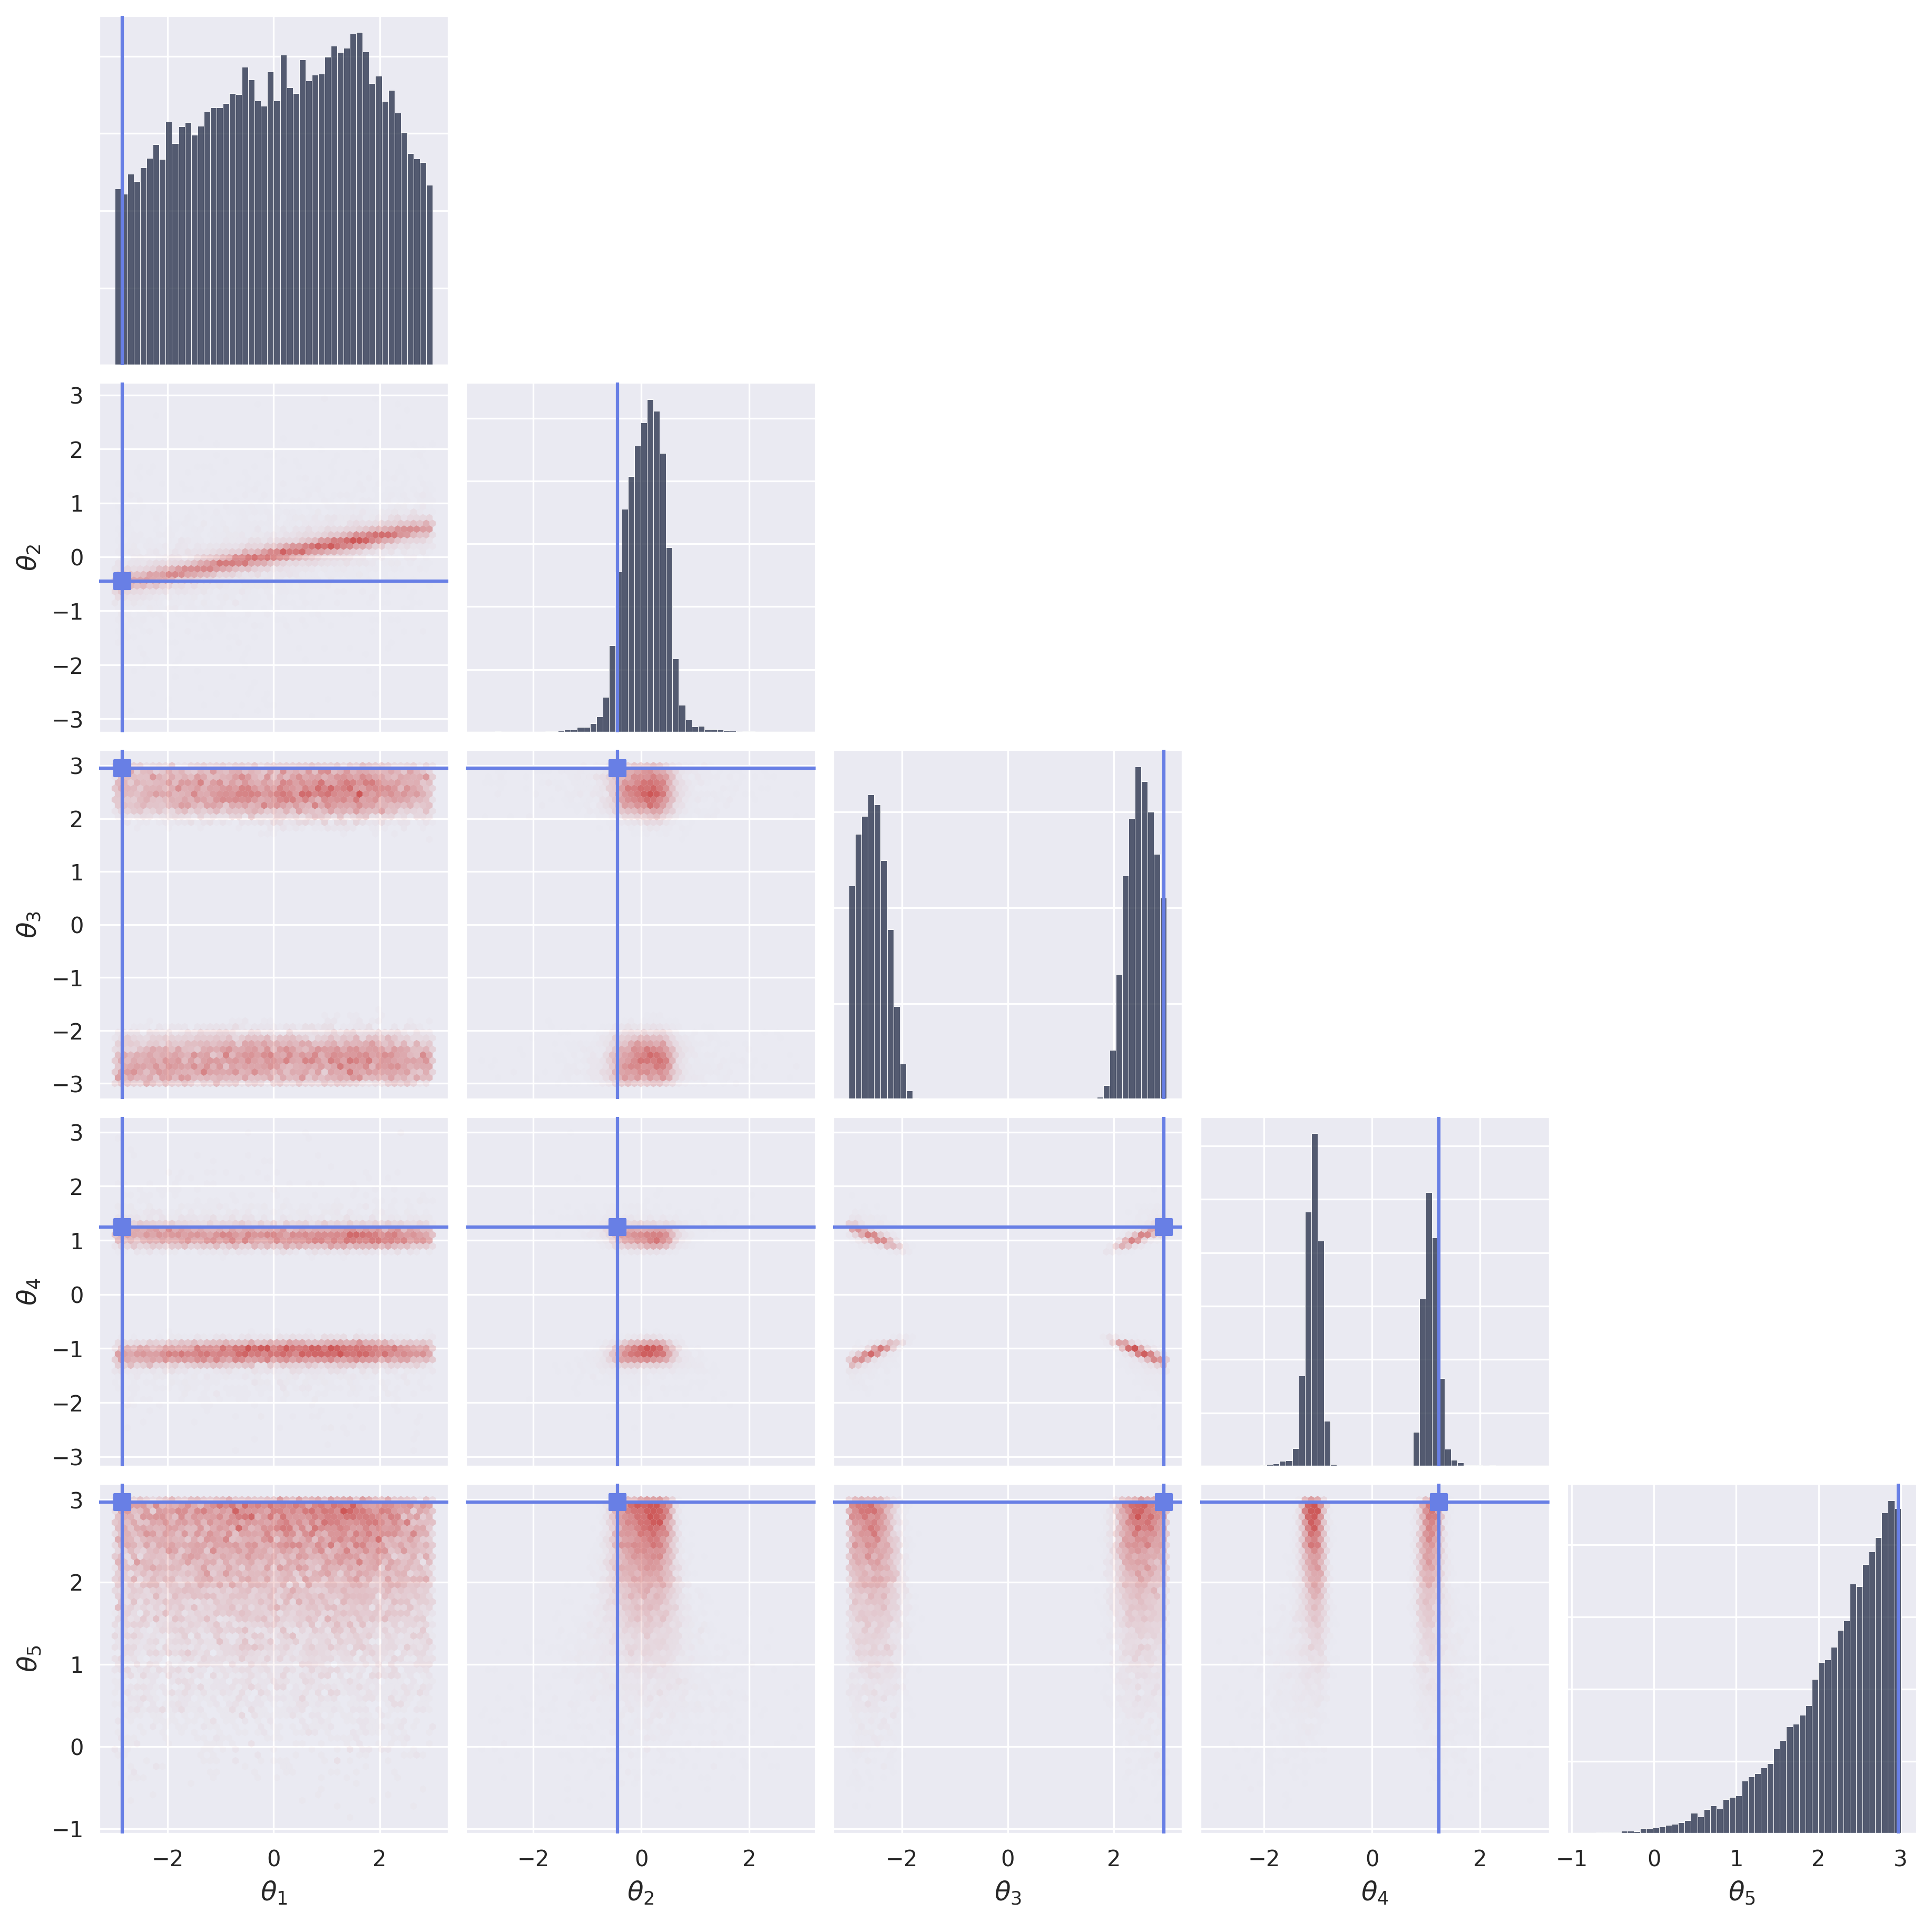
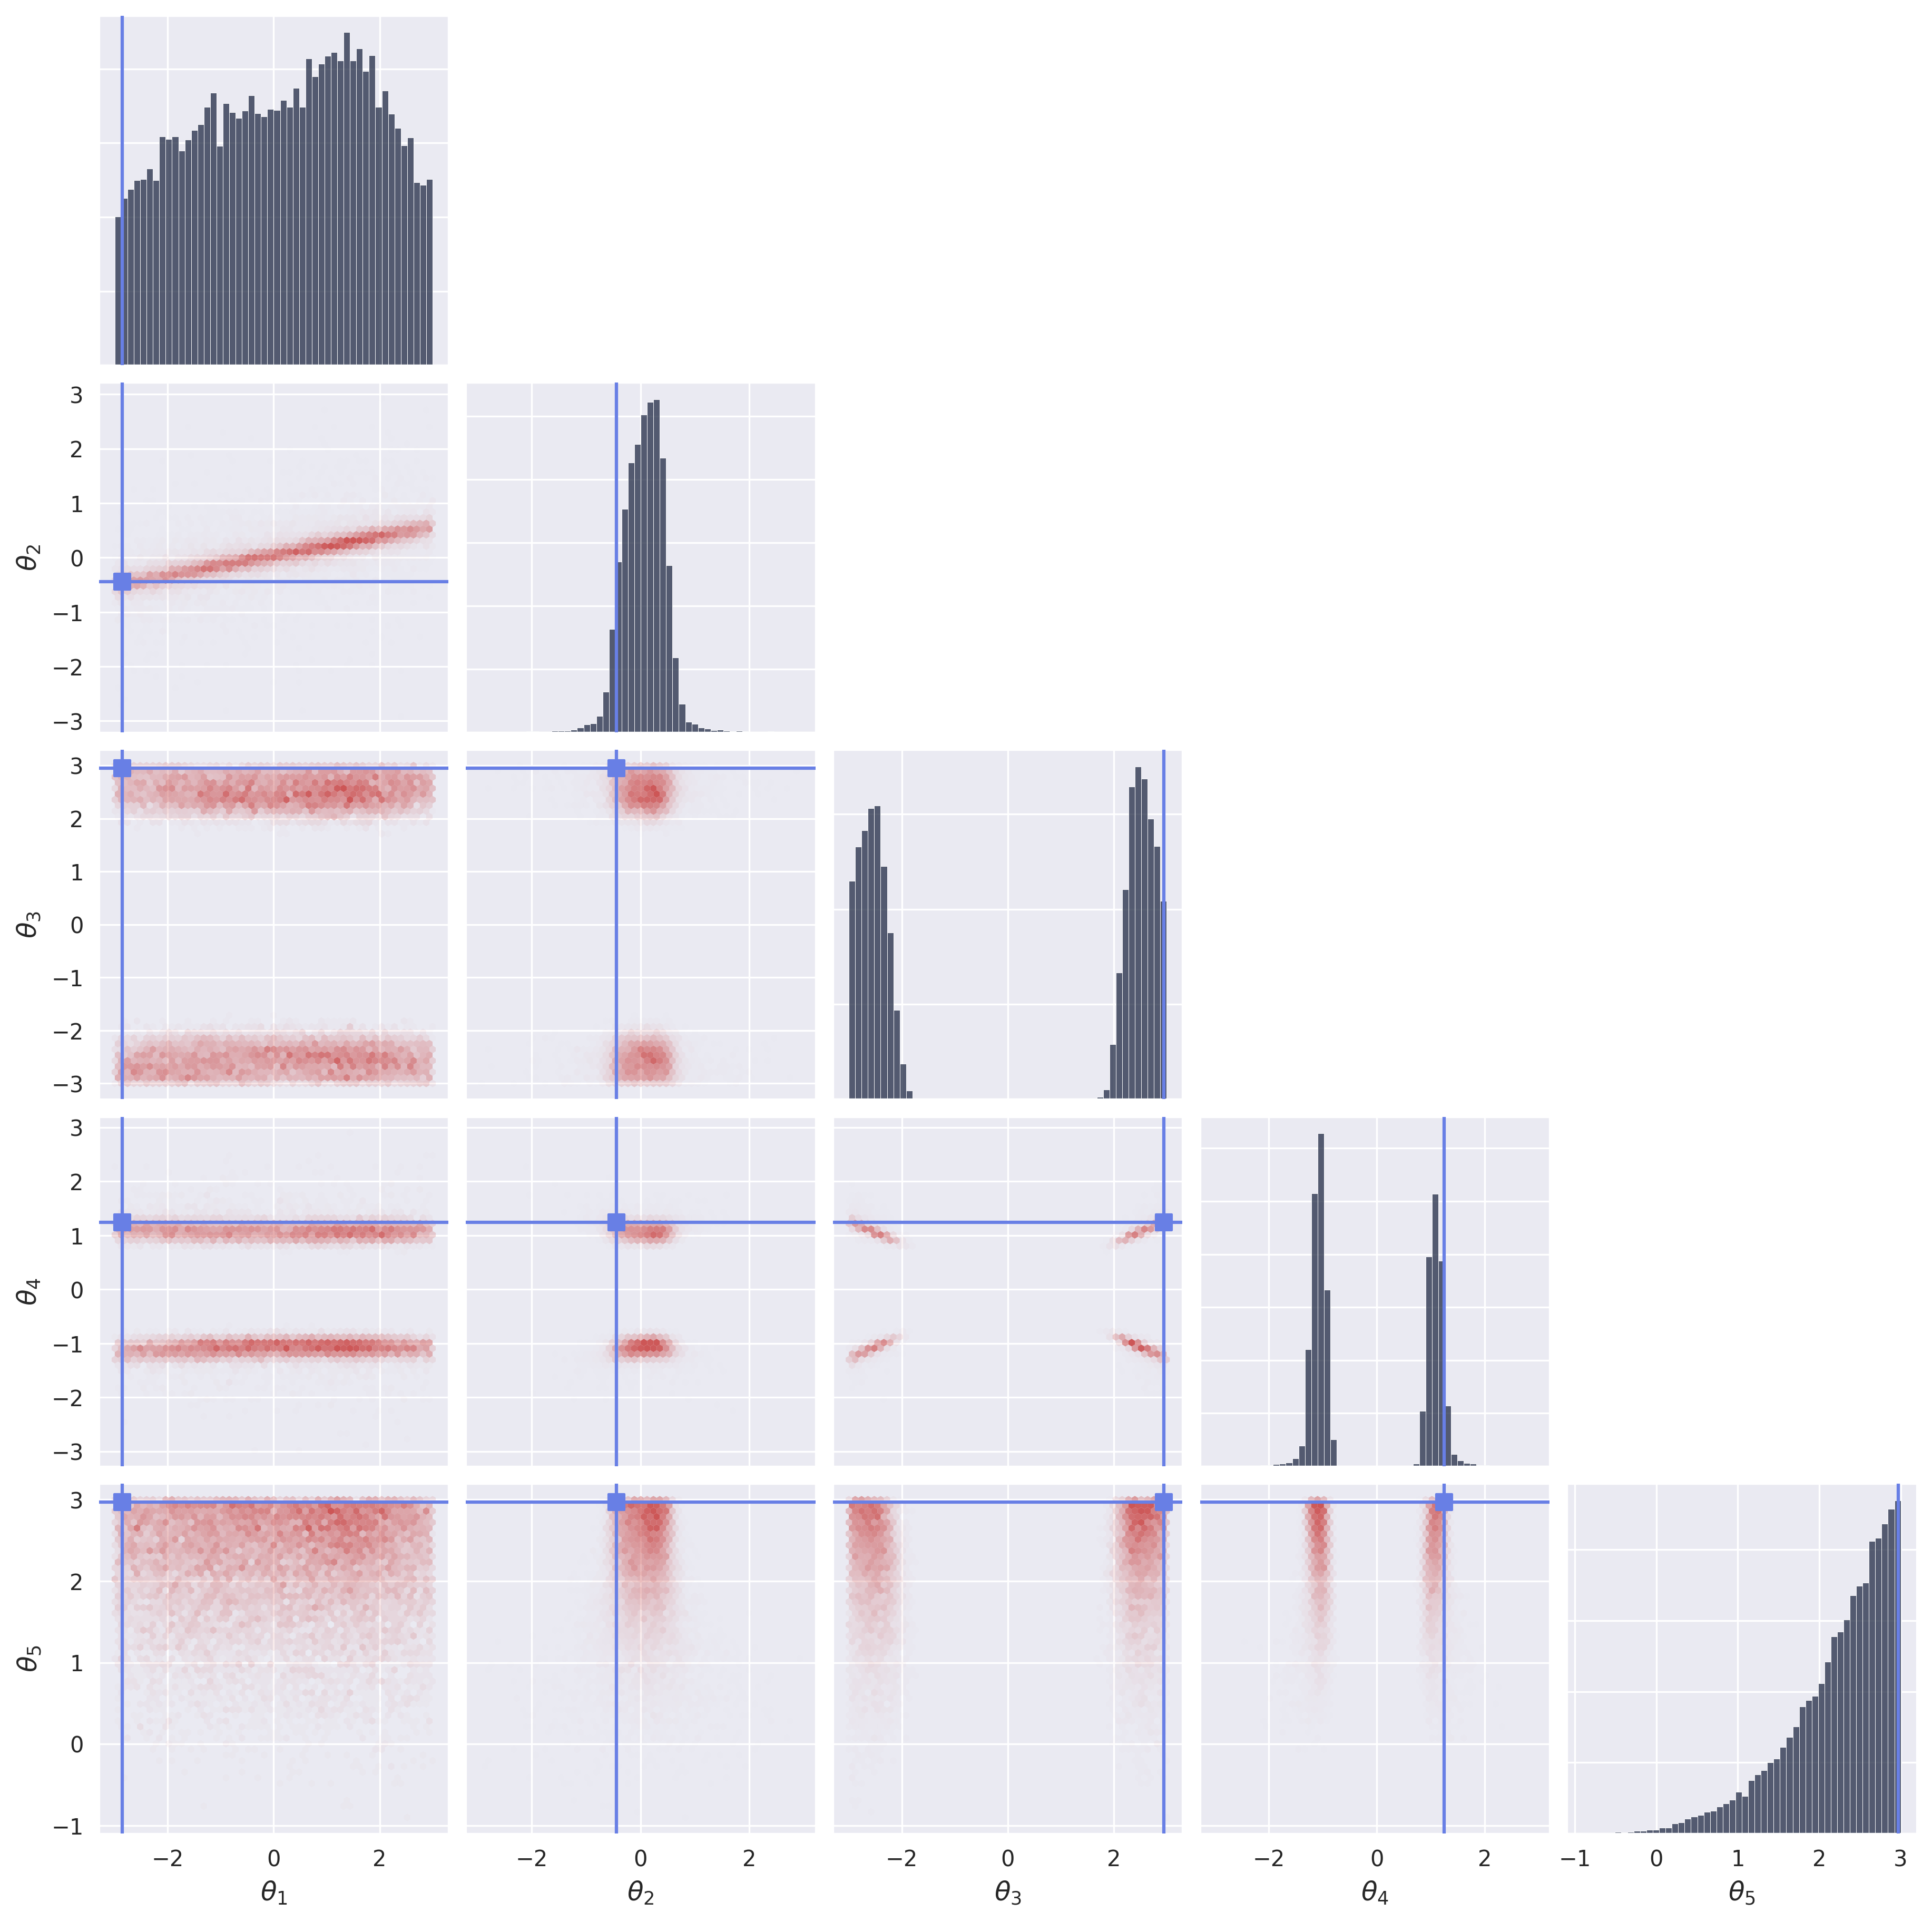
wip slcp NF

diff --git a/examples/sbi-benchmarks/slcp/maf_NLE/train_maf_nle.py b/examples/sbi-benchmarks/slcp/maf_NLE/train_maf_nle.py
@@ -35,6 +35,7 @@ from gensbi.normalizing_flows import Affine, RQSpline
 from gensbi.models import MAFlow, MAFlowParams
 from gensbi.recipes import ConditionalFlowPipeline
 from gensbi.inference import NLEPosterior, TemperedSMC
+from gensbi.diagnostics.metrics import c2st
 from gensbi.utils.plotting import plot_marginals
 from sbibm_jax.data import TaskDataset
 from sbibm_jax.tasks import get_task
@@ -163,6 +164,57 @@ def build_sampler(sampler_cfg):
     )
 
 
+def compute_c2st(pipeline, task, prior, sampler_cfg, key=None):
+    """C2ST accuracy per observation for the raw and EMA NLE posteriors.
+
+    For each of the task's reference observations, rebuild the NLE posterior (likelihood
+    flow + prior) and draw posterior samples with tempered SMC, then score them against
+    the reference posterior samples with a classifier two-sample test. Accuracy ~0.5
+    means the recovered posterior is indistinguishable from the reference; ~1.0 means
+    they are easily told apart. Each SMC sample is subsampled to the reference count so
+    the two c2st classes stay balanced (an imbalance would shift the chance accuracy away
+    from 0.5). SMC is run once per observation for both the raw and EMA flows. Returns
+    {"raw": [...], "ema": [...]} of per-observation accuracies.
+    """
+    if key is None:
+        key = jax.random.PRNGKey(0)
+    results = {"raw": [], "ema": []}
+    for tag, use_ema in (("raw", False), ("ema", True)):
+        posterior = build_posterior(pipeline, prior, use_ema=use_ema)
+        for idx in range(1, task.num_observations + 1):
+            obs, reference_samples = task.get_reference(idx)
+            sampler = build_sampler(sampler_cfg)
+            key, subkey = jax.random.split(key)
+            samples = posterior.sample(subkey, obs, sampler=sampler)
+            post = samples[..., 0]
+            n = min(reference_samples.shape[0], post.shape[0])
+            acc = float(c2st(reference_samples[:n], post[:n]))
+            results[tag].append(acc)
+            print(f"C2ST [{tag}] observation={idx}: {acc:.4f}")
+    return results
+
+
+def save_c2st_results(c2st_dir, accuracies, tag, experiment_id, method, model):
+    """Write per-observation c2st accuracies and their mean +- std to a txt file.
+
+    Mirrors scripts/train_sbi_model.py. tag is "raw" or "ema" and selects both the
+    filename suffix and the in-file labels. Returns the path written.
+    """
+    suffix = "_ema" if tag == "ema" else ""
+    label = "EMA " if tag == "ema" else ""
+    path = os.path.join(
+        c2st_dir, f"c2st_results{suffix}_{experiment_id}_{method}_{model}.txt"
+    )
+    with open(path, "w") as f:
+        for idx, acc in enumerate(accuracies, start=1):
+            f.write(f"C2ST accuracy {label}for observation={idx}: {acc:.4f}\n")
+        f.write(
+            f"Average C2ST accuracy {label}: "
+            f"{np.mean(accuracies):.4f} +- {np.std(accuracies):.4f}\n"
+        )
+    return path
+
+
 def parse_args():
     here = os.path.dirname(os.path.abspath(__file__))
     default_config = os.path.join(here, "config", "config_maf_nle.yaml")
@@ -241,6 +293,27 @@ def main():
     plt.savefig(out_path, dpi=300, bbox_inches="tight")
     plt.close("all")
     print(f"Saved posterior marginals to {out_path}")
+
+    # --- C2ST: score the SMC posterior against the reference posterior ---
+    strategy = config.get("strategy", {})
+    method = strategy.get("method", "nle")
+    model = strategy.get("model", "maf")
+    experiment_id = train_cfg.get("experiment_id", 1)
+
+    c2st_dir = os.path.join(exp_dir, "c2st_results")
+    os.makedirs(c2st_dir, exist_ok=True)
+
+    print(f"Running C2ST over {task.num_observations} observations "
+          f"(tempered SMC per observation, x2 for raw+EMA; this is slow)...")
+    c2st_results = compute_c2st(pipeline, task, prior, sampler_cfg)
+    for tag in ("raw", "ema"):
+        accs = c2st_results[tag]
+        label = "EMA" if tag == "ema" else "raw"
+        print(f"Average C2ST accuracy [{label}]: "
+              f"{np.mean(accs):.4f} +- {np.std(accs):.4f}")
+        path = save_c2st_results(c2st_dir, accs, tag, experiment_id, method, model)
+        print(f"Saved C2ST results to {path}")
+    print("C2ST complete.")
 
 
 if __name__ == "__main__":

diff --git a/examples/sbi-benchmarks/slcp/tarflow_NLE/train_tarflow_nle.py b/examples/sbi-benchmarks/slcp/tarflow_NLE/train_tarflow_nle.py
@@ -37,6 +37,7 @@ import matplotlib.pyplot as plt
 from gensbi.models import TarFlow, TarFlowParams
 from gensbi.recipes import ConditionalFlowPipeline
 from gensbi.inference import NLEPosterior, TemperedSMC
+from gensbi.diagnostics.metrics import c2st
 from gensbi.utils.plotting import plot_marginals
 from sbibm_jax.data import TaskDataset
 from sbibm_jax.tasks import get_task
@@ -164,6 +165,57 @@ def build_sampler(sampler_cfg):
     )
 
 
+def compute_c2st(pipeline, task, prior, sampler_cfg, key=None):
+    """C2ST accuracy per observation for the raw and EMA NLE posteriors.
+
+    For each of the task's reference observations, rebuild the NLE posterior (likelihood
+    flow + prior) and draw posterior samples with tempered SMC, then score them against
+    the reference posterior samples with a classifier two-sample test. Accuracy ~0.5
+    means the recovered posterior is indistinguishable from the reference; ~1.0 means
+    they are easily told apart. Each SMC sample is subsampled to the reference count so
+    the two c2st classes stay balanced (an imbalance would shift the chance accuracy away
+    from 0.5). SMC is run once per observation for both the raw and EMA flows. Returns
+    {"raw": [...], "ema": [...]} of per-observation accuracies.
+    """
+    if key is None:
+        key = jax.random.PRNGKey(0)
+    results = {"raw": [], "ema": []}
+    for tag, use_ema in (("raw", False), ("ema", True)):
+        posterior = build_posterior(pipeline, prior, use_ema=use_ema)
+        for idx in range(1, task.num_observations + 1):
+            obs, reference_samples = task.get_reference(idx)
+            sampler = build_sampler(sampler_cfg)
+            key, subkey = jax.random.split(key)
+            samples = posterior.sample(subkey, obs, sampler=sampler)
+            post = samples[..., 0]
+            n = min(reference_samples.shape[0], post.shape[0])
+            acc = float(c2st(reference_samples[:n], post[:n]))
+            results[tag].append(acc)
+            print(f"C2ST [{tag}] observation={idx}: {acc:.4f}")
+    return results
+
+
+def save_c2st_results(c2st_dir, accuracies, tag, experiment_id, method, model):
+    """Write per-observation c2st accuracies and their mean +- std to a txt file.
+
+    Mirrors scripts/train_sbi_model.py. tag is "raw" or "ema" and selects both the
+    filename suffix and the in-file labels. Returns the path written.
+    """
+    suffix = "_ema" if tag == "ema" else ""
+    label = "EMA " if tag == "ema" else ""
+    path = os.path.join(
+        c2st_dir, f"c2st_results{suffix}_{experiment_id}_{method}_{model}.txt"
+    )
+    with open(path, "w") as f:
+        for idx, acc in enumerate(accuracies, start=1):
+            f.write(f"C2ST accuracy {label}for observation={idx}: {acc:.4f}\n")
+        f.write(
+            f"Average C2ST accuracy {label}: "
+            f"{np.mean(accuracies):.4f} +- {np.std(accuracies):.4f}\n"
+        )
+    return path
+
+
 def parse_args():
     here = os.path.dirname(os.path.abspath(__file__))
     default_config = os.path.join(here, "config", "config_tarflow_nle.yaml")
@@ -242,6 +294,27 @@ def main():
     plt.savefig(out_path, dpi=300, bbox_inches="tight")
     plt.close("all")
     print(f"Saved posterior marginals to {out_path}")
+
+    # --- C2ST: score the SMC posterior against the reference posterior ---
+    strategy = config.get("strategy", {})
+    method = strategy.get("method", "nle")
+    model = strategy.get("model", "tarflow")
+    experiment_id = train_cfg.get("experiment_id", 1)
+
+    c2st_dir = os.path.join(exp_dir, "c2st_results")
+    os.makedirs(c2st_dir, exist_ok=True)
+
+    print(f"Running C2ST over {task.num_observations} observations "
+          f"(tempered SMC per observation, x2 for raw+EMA; this is slow)...")
+    c2st_results = compute_c2st(pipeline, task, prior, sampler_cfg)
+    for tag in ("raw", "ema"):
+        accs = c2st_results[tag]
+        label = "EMA" if tag == "ema" else "raw"
+        print(f"Average C2ST accuracy [{label}]: "
+              f"{np.mean(accs):.4f} +- {np.std(accs):.4f}")
+        path = save_c2st_results(c2st_dir, accs, tag, experiment_id, method, model)
+        print(f"Saved C2ST results to {path}")
+    print("C2ST complete.")
 
 
 if __name__ == "__main__":

diff --git a/examples/sbi-benchmarks/slcp/tarflow_NPE/train_tarflow_npe.py b/examples/sbi-benchmarks/slcp/tarflow_NPE/train_tarflow_npe.py
@@ -35,6 +35,7 @@ import matplotlib.pyplot as plt
 
 from gensbi.models import TarFlow, TarFlowParams
 from gensbi.recipes import ConditionalFlowPipeline
+from gensbi.diagnostics.metrics import c2st
 from gensbi.utils.plotting import plot_marginals
 from sbibm_jax.data import TaskDataset
 
@@ -105,6 +106,54 @@ def apply_standardization(pipeline, mean, std):
     pipeline.model.set_standardization(mean, std)
     pipeline.ema_model.set_standardization(mean, std)
     pipeline._standardized = True
+
+
+def compute_c2st(pipeline, task, key=None):
+    """C2ST accuracy per observation for the raw and EMA posteriors.
+
+    For each of the task's reference observations, draw posterior samples from the
+    amortized flow q(theta | x_o) and score them against the reference posterior samples
+    with a classifier two-sample test. Accuracy ~0.5 means the learned posterior is
+    indistinguishable from the reference; ~1.0 means they are easily told apart. The
+    posterior sample count is matched to the reference count so the two c2st classes
+    stay balanced (an imbalance would shift the chance accuracy away from 0.5). NPE
+    sampling is amortized and cheap, so both the raw and EMA flows are evaluated.
+    Returns {"raw": [...], "ema": [...]} of per-observation accuracies.
+    """
+    if key is None:
+        key = jax.random.PRNGKey(42)
+    results = {"raw": [], "ema": []}
+    for tag, use_ema in (("raw", False), ("ema", True)):
+        for idx in range(1, task.num_observations + 1):
+            obs, reference_samples = task.get_reference(idx)
+            n = reference_samples.shape[0]
+            key, subkey = jax.random.split(key)
+            samples = pipeline.sample(subkey, obs, nsamples=n, use_ema=use_ema)
+            acc = float(c2st(reference_samples, samples[..., 0]))
+            results[tag].append(acc)
+            print(f"C2ST [{tag}] observation={idx}: {acc:.4f}")
+    return results
+
+
+def save_c2st_results(c2st_dir, accuracies, tag, experiment_id, method, model):
+    """Write per-observation c2st accuracies and their mean +- std to a txt file.
+
+    Mirrors scripts/train_sbi_model.py. tag is "raw" or "ema" and selects both the
+    filename suffix and the in-file labels. Returns the path written.
+    """
+    suffix = "_ema" if tag == "ema" else ""
+    label = "EMA " if tag == "ema" else ""
+    path = os.path.join(
+        c2st_dir, f"c2st_results{suffix}_{experiment_id}_{method}_{model}.txt"
+    )
+    with open(path, "w") as f:
+        for idx, acc in enumerate(accuracies, start=1):
+            f.write(f"C2ST accuracy {label}for observation={idx}: {acc:.4f}\n")
+        f.write(
+            f"Average C2ST accuracy {label}: "
+            f"{np.mean(accuracies):.4f} +- {np.std(accuracies):.4f}\n"
+        )
+    return path
 
 
 def parse_args():
@@ -178,6 +227,26 @@ def main():
     plt.savefig(out_path, dpi=300, bbox_inches="tight")
     plt.close("all")
     print(f"Saved posterior marginals to {out_path}")
+
+    # --- C2ST: score the amortized posterior against the reference posterior ---
+    strategy = config.get("strategy", {})
+    method = strategy.get("method", "npe")
+    model = strategy.get("model", "tarflow")
+    experiment_id = train_cfg.get("experiment_id", 1)
+
+    c2st_dir = os.path.join(exp_dir, "c2st_results")
+    os.makedirs(c2st_dir, exist_ok=True)
+
+    print(f"Running C2ST over {task.num_observations} observations...")
+    c2st_results = compute_c2st(pipeline, task)
+    for tag in ("raw", "ema"):
+        accs = c2st_results[tag]
+        label = "EMA" if tag == "ema" else "raw"
+        print(f"Average C2ST accuracy [{label}]: "
+              f"{np.mean(accs):.4f} +- {np.std(accs):.4f}")
+        path = save_c2st_results(c2st_dir, accs, tag, experiment_id, method, model)
+        print(f"Saved C2ST results to {path}")
+    print("C2ST complete.")
 
 
 if __name__ == "__main__":